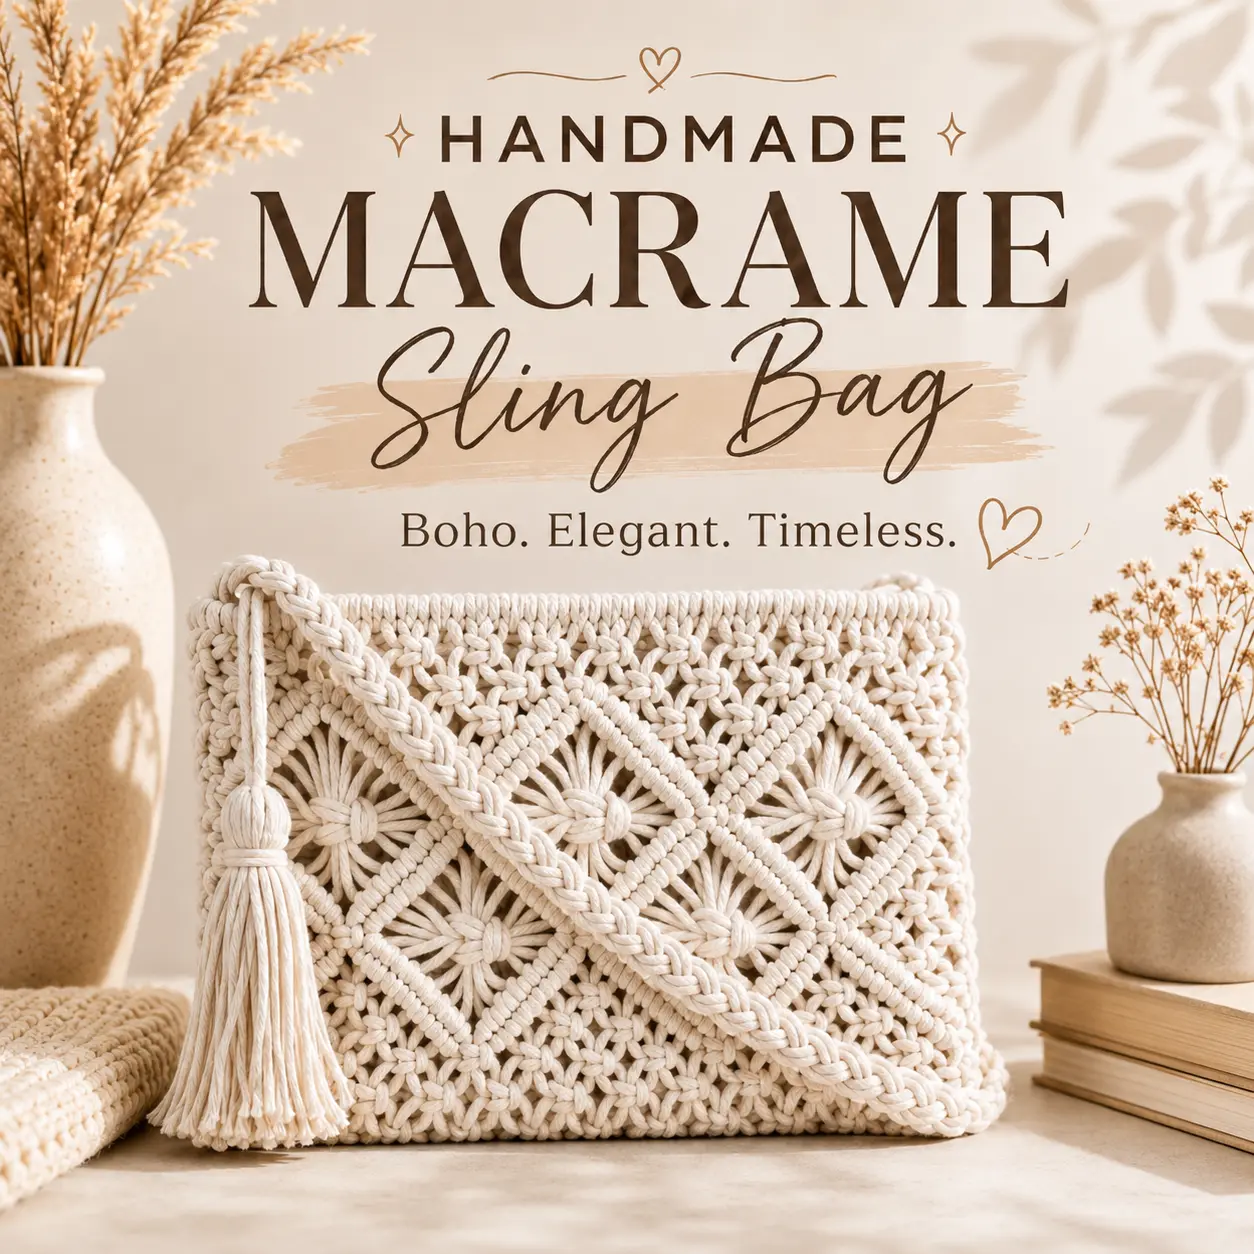
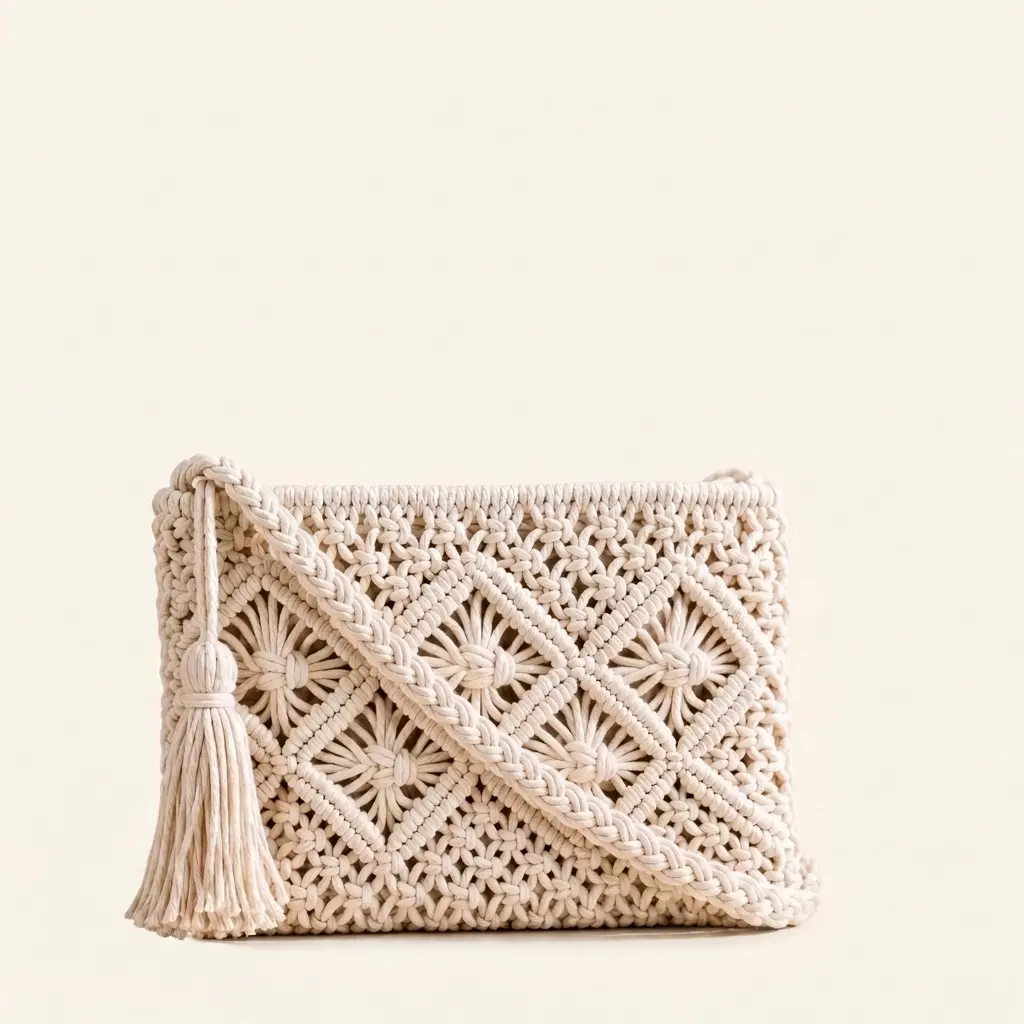
products

diff --git a/src/data/products.js b/src/data/products.js
@@ -78,6 +78,12 @@ import img_76 from "../assets/images/products/76.webp";
 import img_77 from "../assets/images/products/77.webp"; 
 import img_78 from "../assets/images/products/78.webp";
 import img_79 from "../assets/images/products/79.webp"; 
+import img_80 from "../assets/images/products/80.webp"; 
+import img_81 from "../assets/images/products/81.webp";
+import img_82 from "../assets/images/products/82.webp";
+import img_83 from "../assets/images/products/83.webp";
+import img_84 from "../assets/images/products/84.webp";
+import img_85 from "../assets/images/products/85.webp";
 
 export const PRODUCTS = [
 
@@ -228,7 +234,7 @@ export const PRODUCTS = [
     id: 43,
     title: "TIMEWEAR Analog Watch for Men",
     group: "Men's",
-    category: "Fashion",
+    category: "Accessories",
     tag: "Best Amazon Find",
     image: img_43,
     affiliateUrl: "https://amzn.to/4gAVplJ",
@@ -281,6 +287,24 @@ export const PRODUCTS = [
       "Plain pattern for versatile styling",
       "Comfortable regular fit",
       "Color may vary due to lighting"
+    ],
+    featured: false,
+  },
+  {
+    id: 80,
+    title: "ROYALSCOUT Men's Short Kurta | Mandarin Collar Full Sleeve Pullover Kurta",
+    group: "Men's",
+    category: "Fashion",
+    tag: "Best Deal",
+    image: img_80,
+    affiliateUrl: "https://link.amazon/B03VeWNNC",
+    description: "Cotton blend short kurta with a mandarin collar and pullover style, offering a regular comfortable fit for casual and festive ethnic wear.",
+    features: [
+      "Soft, breathable cotton blend fabric",
+      "Mandarin collar with button placket",
+      "Full sleeves, pullover style",
+      "Regular comfortable fit",
+      "Available in multiple colors"
     ],
     featured: false,
   },
@@ -408,7 +432,7 @@ export const PRODUCTS = [
     id: 19,
     title: "Zouk Women's Office Laptop Bag",
     group: "Women's",
-    category: "Fashion",
+    category: "Accessories",
     tag: "Best Seller",
     image: img_19,
     affiliateUrl: "https://amzn.to/3S2huQ0",
@@ -420,7 +444,7 @@ export const PRODUCTS = [
     id: 24,
     title: "Handmade Macrame Sling Bag",
     group: "Women's",
-    category: "Fashion",
+    category: "Accessories",
     tag: "Boho Chic",
     image: img_24,
     affiliateUrl: "https://amzn.to/4e5sBjL",
@@ -432,7 +456,7 @@ export const PRODUCTS = [
     id: 49,
     title: "LA GLARE Soft Fabric Sling Bag",
     group: "Women's",
-    category: "Fashion",
+    category: "Accessories",
     tag: "Women's Accessories",
     image: img_49,
     affiliateUrl: "https://amzn.to/4v5j4P6",
@@ -444,12 +468,66 @@ export const PRODUCTS = [
     id: 51,
     title: "Styledose Rose Gold Diamond Studded Women's Watch",
     group: "Women's",
-    category: "Fashion",
+    category: "Accessories",
     tag: "Women's Watch",
     image: img_51,
     affiliateUrl: "https://amzn.to/4ambTud",
     description: "A stylish rose gold analogue watch featuring a slim bracelet design and diamond-studded dial. Perfect for everyday elegance and gifting.",
     features: ["Diamond studded dial", "Rose gold bracelet strap", "Slim & lightweight design", "Japanese quartz movement", "Perfect gift option"],
+    featured: false,
+  },
+  {
+    id: 81,
+    title: "Nermosa High-Waist Korean Trousers | Wide Baggy Fit GenZ Streetwear Pants",
+    group: "Women's",
+    category: "Fashion",
+    tag: "Best Deal",
+    image: img_81,
+    affiliateUrl: "https://link.amazon/B01K1he4U",
+    description: "High-waist wide-leg trousers with a pleated Korean streetwear style, offering a loose, breathable fit for casual, everyday outfits.",
+    features: [
+      "High-waist wide-leg design",
+      "Korean streetwear inspired style",
+      "Loose, breathable fabric",
+      "Pairs well with crop tops or hoodies",
+      "Available in 5 colors"
+    ],
+    featured: false,
+  },
+  {
+    id: 84,
+    title: "RIEKA Womens Floral Applique Embroidered Tunic Top | Mandarin Collar Half Sleeve",
+    group: "Women's",
+    category: "Fashion",
+    tag: "Best Seller",
+    image: img_84,
+    affiliateUrl: "https://link.amazon/B0aRE37DA",
+    description: "Soft, breathable floral applique embroidered tunic top with a mandarin collar and relaxed curved hemline for versatile everyday styling.",
+    features: [
+      "Delicate white floral applique embroidery",
+      "Mandarin collar with button-down front",
+      "Soft, breathable lightweight fabric",
+      "Relaxed fit with curved hemline",
+      "Versatile for casual, office, and vacation wear"
+    ],
+    featured: false,
+  },
+  {
+    id: 85,
+    title: "ADISA Crossbody Bag for Women | Laser Cut Sling Bag with Gold Chain",
+    group: "Women's",
+    category: "Accessories",
+    tag: "Best Deal",
+    image: img_85,
+    affiliateUrl: "https://link.amazon/B0idsB9dx",
+    description: "Laser-cut PU leather crossbody sling bag with a gold chain strap and magnetic closure, offering organized storage in a compact, stylish design.",
+    features: [
+      "Laser-cut premium PU leather design",
+      "Elegant gold chain shoulder strap",
+      "Secure magnetic flap closure",
+      "Two compartments and one pocket",
+      "Compact size: 7.1 × 3 × 5.5 inches"
+    ],
     featured: false,
   },
 
@@ -493,6 +571,42 @@ export const PRODUCTS = [
       "Breathable lining for dry, fresh feet",
       "Cushioned insole for extra comfort",
       "Slip-on or lace-up versatile fit"
+    ],
+    featured: false,
+  },
+  {
+    id: 82,
+    title: "Carrito Women Wedge Heels Thong Sandals | Cushioned Orthopaedic Flats",
+    group: "Women's",
+    category: "Footwear",
+    tag: "Best Seller",
+    image: img_82,
+    affiliateUrl: "https://link.amazon/B04Ev7l7Q",
+    description: "Wedge thong sandals with a cushioned footbed, buckle accent strap, and anti-skid sole, designed for all-day comfort and versatile everyday styling.",
+    features: [
+      "Gentle wedge heel for posture support",
+      "Ultra-cushioned shock-absorbing footbed",
+      "Trendy buckle accent strap",
+      "Lightweight anti-skid sole",
+      "Versatile for ethnic and casual wear"
+    ],
+    featured: false,
+  },
+  {
+    id: 83,
+    title: "GG360 Women's Platform Slide Sandals | Cushioned Double Strap Monogram Flats",
+    group: "Women's",
+    category: "Footwear",
+    tag: "Best Value",
+    image: img_83,
+    affiliateUrl: "https://link.amazon/B0fqNAaTO",
+    description: "Beige monogram-printed platform slide sandals with a cushioned double strap and elevated sole for stylish, comfortable everyday wear.",
+    features: [
+      "Soft cushioned footbed for all-day comfort",
+      "Elevated platform sole for added height",
+      "Stylish beige monogram print design",
+      "Easy double strap slip-on style",
+      "Versatile for daily wear and travel"
     ],
     featured: false,
   },